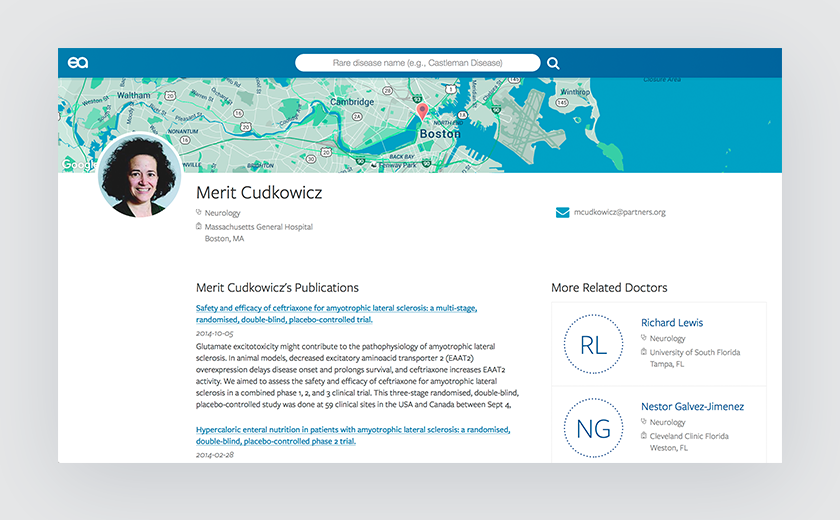
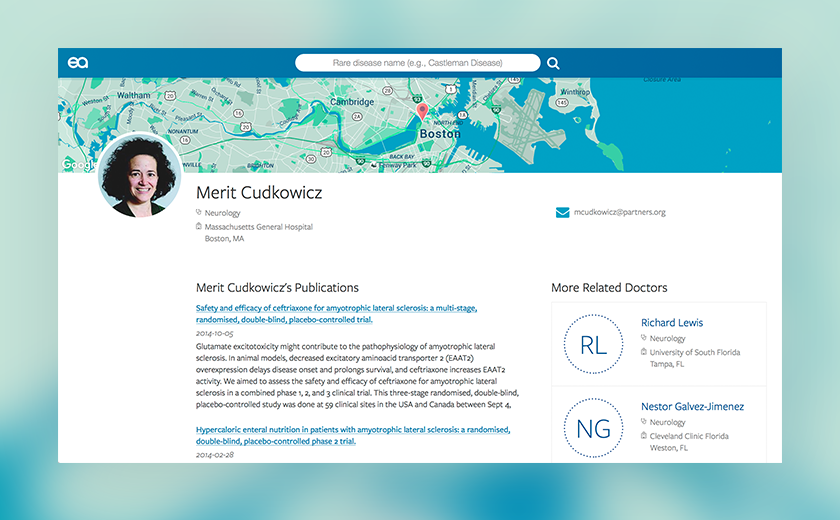
change nav and update some projects

diff --git a/code510.html b/code510.html
@@ -12,12 +12,19 @@
 	</head>
 
 <body>
+
 	<nav>
 		<a href = "index.html"><img src = "images/logo.png" id = "logotype" ></a>
 
 		<div class = "nav-links">
 			<div class="nav-element">
 				<a class="nav-link selected"href="index.html">Work</a>
+				<div class="canvas-container">
+					<canvas class="link-canvas" width="260" height="260"></canvas>
+				</div>
+			</div>
+			<div class="nav-element">
+				<a class="nav-link" href="sketchBlog.html">Blog</a>
 				<div class="canvas-container">
 					<canvas class="link-canvas" width="260" height="260"></canvas>
 				</div>
@@ -59,9 +66,9 @@ $( document ).ready(function() {
 		<h1>Code 510</h1>
 		<div style="text-align: center; background-color: rgb(226, 227, 229);"><img style="height: 300px; margin: auto; text-align: center;" src="images/home-images/code510.png"></div>
 		<h2>Overview</h2>
-		<p class = "body-text">Code 510 is an after school program where youth from the East bay can find mentorship for their self driven projects and learn computing skills. I have volunteered as a mentor for Code 510 since Fall 2014 and have supported two game projects: one in javascript and one in 3D using Unity and Autodesk Maya. I advise students in the areas of design, concept art, Maya, and code.</p>
+		<p class = "body-text">Code 510 is an after school program where youth from the East bay can find mentorship for their self driven projects and learn computing skills. I have volunteered as a mentor for Code 510 since Fall 2014 and have supported two game projects: one in <span class = "skill">Javascript</span> and one in 3D using <span class = "skill">Unity and Autodesk Maya</span>. I advise students in the areas of design, concept art, Maya, and code.</p>
 
- 		<p>Recently I designed and built the website to host Code 510&rsquo;s curriculum and outreach using Wordpress. This was an opportunity to learn about customizing layout and fields in Wordpress and branding. I wanted to represent code 510 by making the site fresh, bright, and modern but not slick: the learning environment at Code 510 prioritizes process over product and self exploration over polish. </p>
+ 		<p>Recently I <span class = "skill">designed</span> and built the website to host Code 510&rsquo;s curriculum and outreach using <span class = "skill">Wordpress</span>. This was an opportunity to learn about customizing layout and fields in Wordpress and branding. I wanted to represent code 510 by making the site fresh, bright, and modern but not slick: the learning environment at Code 510 prioritizes process over product and self exploration over polish. </p>
  		<p><a href = "http://www.code510.org/"><i class="fa fa-arrow-circle-right"></i>Visit Code 510 site</a></p>
 
  		<div class = "more-projects">
@@ -79,12 +86,12 @@ $( document ).ready(function() {
 				</div>
 				<div class = "one-third-col project-tile">
 					<div class = "project-img">
-						<a href = "sketchBlog.html">
-							<img src = "images/home-images/blog.png">
+						<a href = "fdc.html">
+							<img src = "images/home-images/fdc.png">
 							<div class = "after"></div>
 						</a>
 					</div>
-					<h3><a href = "sketchBlog.html"><i class="fa fa-arrow-circle-right" aria-hidden="true"></i>Next Project: Blog</a></h3>
+					<h3><a href = "fdc.html"><i class="fa fa-arrow-circle-right" aria-hidden="true"></i>Next Project: Five Dollar Challenge</a></h3>
 				</div>
 			</div>
 		</div>

diff --git a/localground.html b/localground.html
@@ -12,12 +12,19 @@
 	</head>
 
 <body>
+
 	<nav>
 		<a href = "index.html"><img src = "images/logo.png" id = "logotype" ></a>
 
 		<div class = "nav-links">
 			<div class="nav-element">
 				<a class="nav-link selected"href="index.html">Work</a>
+				<div class="canvas-container">
+					<canvas class="link-canvas" width="260" height="260"></canvas>
+				</div>
+			</div>
+			<div class="nav-element">
+				<a class="nav-link" href="sketchBlog.html">Blog</a>
 				<div class="canvas-container">
 					<canvas class="link-canvas" width="260" height="260"></canvas>
 				</div>
@@ -31,7 +38,6 @@
 		</div>
 
 	</nav>
-
 
 <script>
 $( document ).ready(function() {
@@ -85,7 +91,6 @@ $( document ).ready(function() {
 		<ul>
 			<li>Overall, users who had experience with the old design found that the new design better foregrounded the tasks they needed to complete.</li>
 			<li>We confirmed our suspicion that some of our labeling terminology was confusing. While this design improved on the previous version, where icons were unlabeled, I began to conduct additional research on mapping and GIS terminology for inspiration.</li>
-			<li>On a personal level, I learned about the importance of proper .</li>
 		</ul>
 		<h2>Iterations and Visual Desgin</h2>
 		<p>Once we had validated the overall structure of the site, I started to prototype interaction details and iterate on the visual design. My team went out into the city of Berkeley and photographed public artwork. Using real data helps me design for the worst case scenarios, and resulted in an interesting mini project to present at the Local Ground workshop</p>

diff --git a/etalHealth.html b/etalHealth.html
@@ -12,12 +12,19 @@
 	</head>
 
 <body>
+
 	<nav>
 		<a href = "index.html"><img src = "images/logo.png" id = "logotype" ></a>
 
 		<div class = "nav-links">
 			<div class="nav-element">
 				<a class="nav-link selected"href="index.html">Work</a>
+				<div class="canvas-container">
+					<canvas class="link-canvas" width="260" height="260"></canvas>
+				</div>
+			</div>
+			<div class="nav-element">
+				<a class="nav-link" href="sketchBlog.html">Blog</a>
 				<div class="canvas-container">
 					<canvas class="link-canvas" width="260" height="260"></canvas>
 				</div>
@@ -58,10 +65,7 @@ $( document ).ready(function() {
 <div class = "container" >
 	<div class="article-content" >
 		<h1>et al Health</h1>	
-		<div style=" background-color: rgb(226, 227, 229);">
-			<img style="height: 300px; margin: auto; " src="images/home-images/etal.png">
-			<img style="width: 33%; vertical-align: top; position: relative; top: 5em;" src="images/etaltemplogo.png">
-		</div>
+		<img src = "images/home-images/etal-header.png" style = "width:100%;">
 		<h2>Overview</h2>
 		<p class = "case-study">et al health is a search engine to help people with rare diseases find a qualified specialist. Our algorithm recommends doctors based on their academic research activity. I led <strong>visual and front end design</strong> and conducted <strong>user interviews</strong> and <strong>competitive analysis</strong>. et al Health placed 3rd in our Big Ideas at Berkeley category, and we won the I School Chen award</p>
 

diff --git a/index.html b/index.html
@@ -25,6 +25,12 @@
 				</div>
 			</div>
 			<div class="nav-element">
+				<a class="nav-link" href="sketchBlog.html">Blog</a>
+				<div class="canvas-container">
+					<canvas class="link-canvas" width="260" height="260"></canvas>
+				</div>
+			</div>
+			<div class="nav-element">
 				<a class="nav-link" href="about.html">About</a>
 				<div class="canvas-container">
 					<canvas class="link-canvas" width="260" height="260"></canvas>
@@ -119,21 +125,6 @@
 				<h3><a href = "code510.html">Code 510</a></h3>
 				<h4>Visual + UX Design, Wordpress, Leadership</h4>
 			</div>
-			<div class = "one-third-col project-tile">
-				<div class = "project-img">
-					<a href = "sketchBlog.html">
-						<img src = "images/home-images/blog.png">
-						<div class = "after"></div>
-					</a>
-				</div>
-				<h3><a href = "sketchBlog.html">Blog</a></h3>
-				<h4>Illustration, Info Vis, Sketchnotes</h4>
-			</div>
-		</div>
-
-		<div class = "content">
-			<div class = "one-third-col project-tile">
-			</div>
 
 			<div class = "one-third-col project-tile">
 				<div class = "project-img">
@@ -145,9 +136,8 @@
 				<h3><a href = "fdc.html">Five Dollar Challenge</a></h3>
 				<h4>Front End Design</h4>
 			</div>
-			<div class = "one-third-col project-tile">
-			</div>
 		</div>
+
 
 
 

diff --git a/fdc.html b/fdc.html
@@ -12,12 +12,19 @@
 	</head>
 
 <body>
+
 	<nav>
 		<a href = "index.html"><img src = "images/logo.png" id = "logotype" ></a>
 
 		<div class = "nav-links">
 			<div class="nav-element">
 				<a class="nav-link selected"href="index.html">Work</a>
+				<div class="canvas-container">
+					<canvas class="link-canvas" width="260" height="260"></canvas>
+				</div>
+			</div>
+			<div class="nav-element">
+				<a class="nav-link" href="sketchBlog.html">Blog</a>
 				<div class="canvas-container">
 					<canvas class="link-canvas" width="260" height="260"></canvas>
 				</div>
@@ -66,12 +73,12 @@ $( document ).ready(function() {
 			<div>
 			<div class = "one-third-col project-tile">
 				<div class = "project-img">
-					<a href = "sketchBlog.html">
-						<img src = "images/home-images/blog.png">
+					<a href = "code510.html">
+						<img src = "images/home-images/code510.png">
 						<div class = "after"></div>
 					</a>
 				</div>
-				<h3><a href = "sketchBlog.html"><i class="fa fa-arrow-circle-left" aria-hidden="true"></i>Previous Project: Blog</a></h3>
+				<h3><a href = "code510.html"><i class="fa fa-arrow-circle-left" aria-hidden="true"></i>Previous Project: Code 510</a></h3>
 			</div>
 			<div class = "one-third-col project-tile">
 			</div>

diff --git a/beatWave.html b/beatWave.html
@@ -12,12 +12,19 @@
 	</head>
 
 <body>
+
 	<nav>
 		<a href = "index.html"><img src = "images/logo.png" id = "logotype" ></a>
 
 		<div class = "nav-links">
 			<div class="nav-element">
 				<a class="nav-link selected"href="index.html">Work</a>
+				<div class="canvas-container">
+					<canvas class="link-canvas" width="260" height="260"></canvas>
+				</div>
+			</div>
+			<div class="nav-element">
+				<a class="nav-link" href="sketchBlog.html">Blog</a>
 				<div class="canvas-container">
 					<canvas class="link-canvas" width="260" height="260"></canvas>
 				</div>

diff --git a/designfiction.html b/designfiction.html
@@ -12,12 +12,19 @@
 	</head>
 
 <body>
+
 	<nav>
 		<a href = "index.html"><img src = "images/logo.png" id = "logotype" ></a>
 
 		<div class = "nav-links">
 			<div class="nav-element">
 				<a class="nav-link selected"href="index.html">Work</a>
+				<div class="canvas-container">
+					<canvas class="link-canvas" width="260" height="260"></canvas>
+				</div>
+			</div>
+			<div class="nav-element">
+				<a class="nav-link" href="sketchBlog.html">Blog</a>
 				<div class="canvas-container">
 					<canvas class="link-canvas" width="260" height="260"></canvas>
 				</div>

diff --git a/sketchBlog.html b/sketchBlog.html
@@ -11,12 +11,19 @@
 	</head>
 
 <body>
+
 	<nav>
 		<a href = "index.html"><img src = "images/logo.png" id = "logotype" ></a>
 
 		<div class = "nav-links">
 			<div class="nav-element">
 				<a class="nav-link selected"href="index.html">Work</a>
+				<div class="canvas-container">
+					<canvas class="link-canvas" width="260" height="260"></canvas>
+				</div>
+			</div>
+			<div class="nav-element">
+				<a class="nav-link" href="sketchBlog.html">Blog</a>
 				<div class="canvas-container">
 					<canvas class="link-canvas" width="260" height="260"></canvas>
 				</div>
